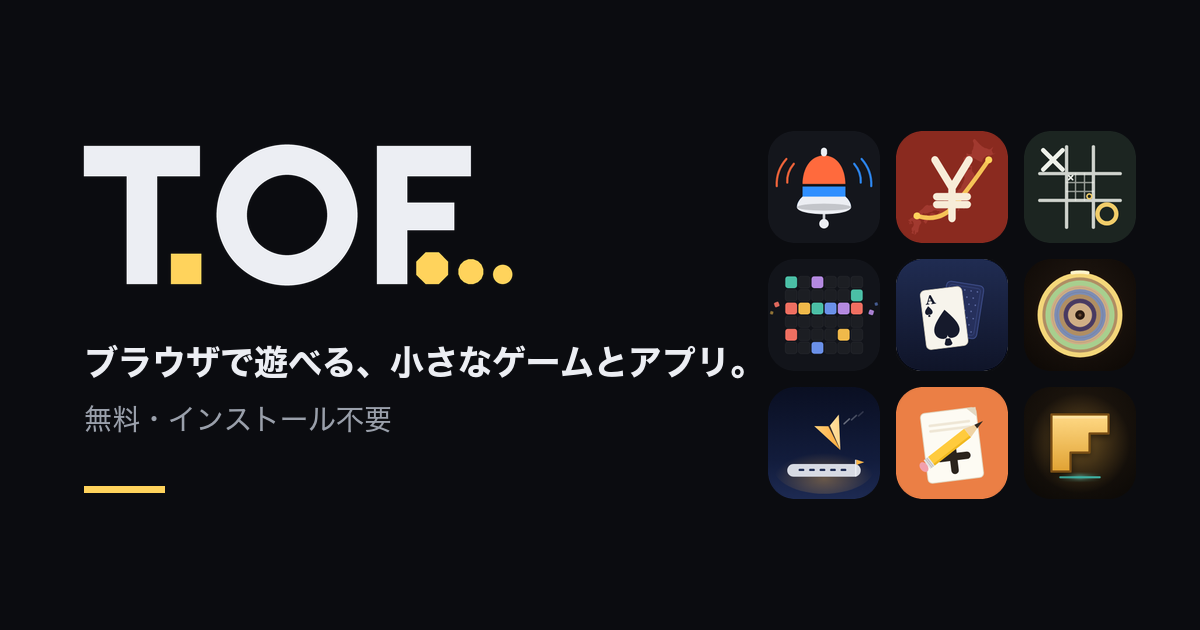
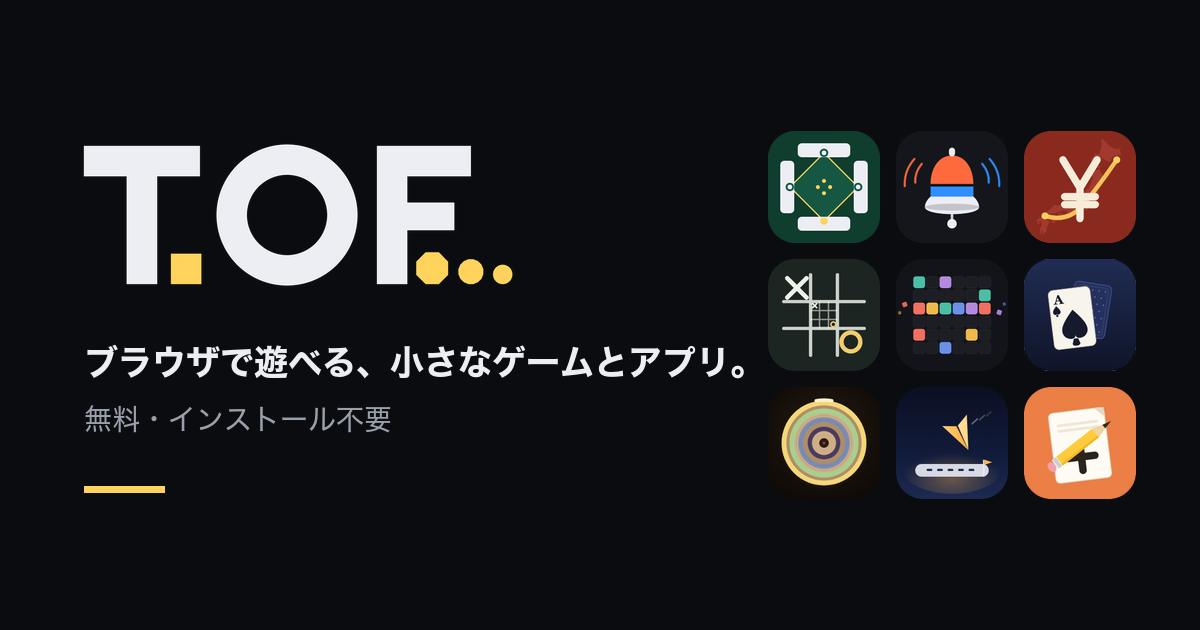
RIICHI BOARD をポータルに追加し、共有画像を作り直す

Changed region(s): [[0.6167, 0.181, 0.9558, 0.8143]]

diff --git a/apps.js b/apps.js
@@ -19,6 +19,16 @@
 
 window.TOFO_APPS = [
   {
+    id: 'riichi-board',
+    name: 'RIICHI BOARD',
+    title: '卓に置く麻雀の点数計算',
+    desc: '麻雀の卓の真ん中に置く、点数計算と持ち点の表示盤。翻と符を押すと点数と「誰が誰にいくら払うか」が出て、確定すると 4 人の持ち点・本場・供託が自動で動く。',
+    category: 'tool',
+    tags: ['麻雀', '点数計算'],
+    icon: '/riichi-board/icons/icon-192.png',
+    color: '#0f3d2e',
+  },
+  {
     id: 'lapbell',
     name: 'LAPBELL',
     title: '声とベルで知らせる運動タイマー',
